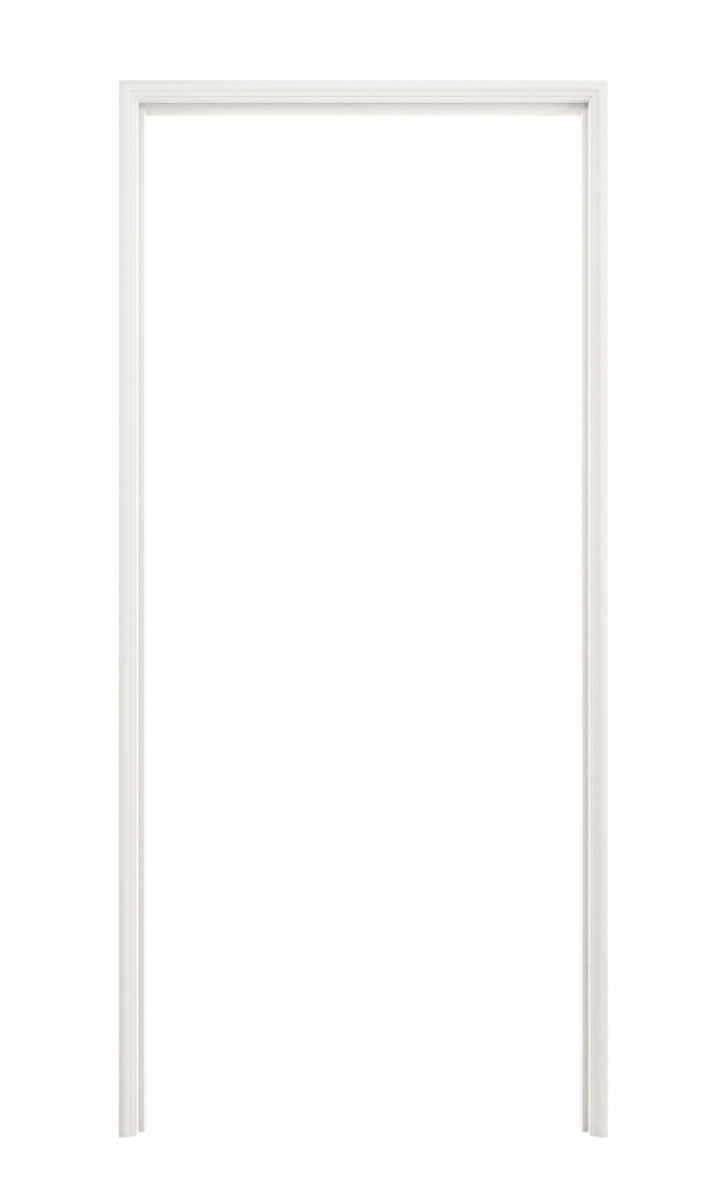
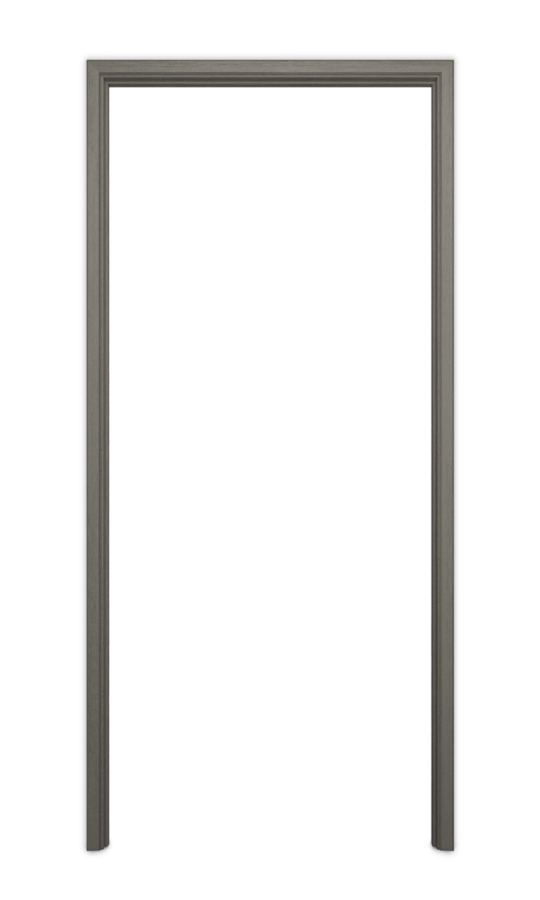
fix: 更換門扇圖片+修正錯字+sidebar layout手機版調整

Changed region(s): [[0.1481, 0.0622, 0.8593, 0.9644]]

diff --git a/layouts/tmp1Components/Header.vue b/layouts/tmp1Components/Header.vue
@@ -3,9 +3,9 @@
         class="fixed z-[500] items-center w-full duration-500 transition-all"
         :class="[isHomeMenuFixed || isPad ? 'bg-white fixed top-0 border-b border-gray-300' : route.name === 'index' ? 'top-0 border-b border-transparent' : '', route.name !== 'index' ? 'fixed top-0 bg-white border-b border-gray-300' : '']"
     >
-        <nav class="xl:mx-[32px] xl:flex items-center xl:text-left text-center" :class="isPad ? 'header-h-mb' : ''">
+        <nav class="xl:mx-[32px] xl:flex items-center xl:text-left text-center h-headerMb xl:h-header">
             <div
-                class="absolute flex justify-center items-center !w-[40px] !h-[40px] top-8 left-4 -translate-y-1/2 flex xl:hidden cursor-pointer z-[2]"
+                class="absolute flex justify-center items-center !w-[40px] !h-[40px] top-8 left-3 -translate-y-1/2 flex xl:hidden cursor-pointer z-[2]"
                 @click="showMenu = !showMenu"
                 type="button"
             >
@@ -122,7 +122,7 @@
                 </li>
             </ul>
             <ul
-                class="absolute xl:relative flex gap-[2px] xl:pr-[16px] 3xl:pr-[20px] top-8 xl:top-0 right-4 xl:right-0 -translate-y-1/2 xl:translate-y-0 xl:before:absolute xl:before:top-1/2 xl:before:-translate-y-1/2 xl:before:right-0 xl:before:bg-gray-400 xl:before:w-[1px] xl:before:h-4 z-[2]"
+                class="absolute xl:relative flex gap-[2px] xl:pr-[16px] 3xl:pr-[20px] top-8 xl:top-0 right-3 xl:right-0 -translate-y-1/2 xl:translate-y-0 xl:before:absolute xl:before:top-1/2 xl:before:-translate-y-1/2 xl:before:right-0 xl:before:bg-gray-400 xl:before:w-[1px] xl:before:h-4 z-[2]"
             >
                 <li
                     v-for="(icon, index) in rightIcons"
@@ -546,11 +546,6 @@ function toggleMenu(key: string) {
             @apply text-gray-600;
         }
     }
-}
-
-// 手機版的header
-.header-h-mb{
-    height: #{$navbar-height-mb};
 }
 
 // 手機版的下拉選單

diff --git a/views/template1/components/SideBar.tsx b/views/template1/components/SideBar.tsx
@@ -1,5 +1,6 @@
 
 import { NuxtLink } from "nuxt";
+
 export default defineComponent({
     props: {
         menus: {
@@ -27,16 +28,16 @@ export default defineComponent({
 
 
         return () => (
-            <ul class="pr-[32px] border-r border-gray-200 w-[250px]">
+            <ul class="relative -mx-4 xl:mx-0 px-4 xl:px-0 flex xl:block xl:pr-[40px] xl:border-r border-gray-200 xl:w-[250px] before:absolute xl:before:content-none before:bottom-0 before:-left-[10rem] before:w-full before:h-[1px] before:bg-gray-200 before:w-[calc(100%+20rem)]">
                 {menus.value.map((menu, index):any =>
                 (
-                    <li onClick={()=>router.push(menu.url)} class={["cursor-pointer border-b border-gray-200","flex text-[16px]", index !== 0 ? 'py-[16px]':'pb-[16px]']}>
-                        <span class={[menu.id ==route.query.id ?'text-gray-800 YaleSolisW-Bd font-medium':'YaleSolisW-Rg text-gray-400', 'flex-1']}>{menu.text}</span>
-                        { menu.id ==route.query.id ? <span><font-awesome-icon icon={['fas', 'chevron-right']} /></span> : null }
+                    <li onClick={()=>router.push(menu.url)} class={["cursor-pointer py-3 px-4 xl:p-0 xl:border-b border-gray-200","flex text-[16px]", index !== 0 ? 'xl:py-[16px]':'xl:pb-[16px]']}>
+                        <span class={[menu.id ==route.query.id ?'text-gray-800 YaleSolisW-Bd font-medium':'YaleSolisW-Rg text-gray-400', 'xl:flex-1']}>{menu.text}</span>
+                        { menu.id ==route.query.id ? <span class="hidden xl:block"><font-awesome-icon icon={['fas', 'chevron-right']} /></span> : null }
                     </li>
                 )
                 )}
             </ul>
         )
-    }
+    },
 })

diff --git a/views/template1/layouts/SideBarLayout.vue b/views/template1/layouts/SideBarLayout.vue
@@ -1,16 +1,16 @@
 <template>
     <section
-        class="mt-[86px]"
+        class="mt-headerMb xl:mt-header overflow-x-hidden"
         :class="customClass"
     >
-        <nav class="border-t border-b border-gray-300 py-[16px] bg-white min-h-[55px]">
+        <nav class="border-t border-b border-gray-300 py-2.5 xl:py-4 bg-white min-h-[43px] xl:min-h-[55px]">
             <div class="container">
                 <slot name="breadcrumbs"></slot>
             </div>
         </nav>
         <div
             :style="`background-image: url(${banner})`"
-            class="relative min-h-[320px] w-full bg-cover flex items-center justify-center"
+            class="relative h-[240px] xl:h-[320px] w-full bg-cover bg-center flex items-center justify-center"
         >
             <!-- <NuxtImg :src="banner" /> -->
             <div class="absolute top-0 w-full h-full bg-black bg-opacity-40"></div>
@@ -18,9 +18,9 @@
         </div>
 
         <div class="container">
-            <div class="mt-[60px] flex">
+            <div class="mt-[20px] xl:mt-[60px] flex flex-col xl:flex-row gap-4 xl:gap-0">
                 <slot name="sidebar"></slot>
-                <main class="flex-1 pl-[40px]">
+                <main class="flex-1 xl:pl-[40px]">
                     <slot name="list"></slot>
                     <slot name="content"></slot>
                     <div class="flex justify-center">

diff --git a/views/template1/Home/HomeSample.vue b/views/template1/Home/HomeSample.vue
@@ -79,11 +79,11 @@
                                         <div class="flex-1 max-w-[600px] cursor-pointer" @click="router.push(slide.url)">
                                             <div class="flex items-center">
                                                 <h5
-                                                    class="flex-1 text-[18px] md:text-[24px] YaleSolisW-Bd font-medium line-clamp-2"
+                                                    class="flex-1 text-[18px] md:text-[24px] YaleSolisW-Bd font-medium line-clamp-1"
                                                 >
                                                     {{ slide.title }}
                                                 </h5>
-                                                <h6 class="hidden block text-[14px] font-medium YaleSolisW-Bd">{{ slide.published_at }}</h6>
+                                                <h6 class="hidden xl:block text-[14px] font-medium YaleSolisW-Bd">{{ slide.published_at }}</h6>
                                             </div>
                                             <p class="md:mt-[6px] mt-[12px] YaleSolisW-Lt font-[400] text-[16px] line-clamp-2" v-if="slide.description">{{ slide.description }}</p>
                                             <!-- {{ index }} -->

diff --git a/layouts/tmp1Components/Footer.vue b/layouts/tmp1Components/Footer.vue
@@ -49,13 +49,12 @@
                     </ul>
                     <aside class="flex flex-col xl:flex-row justify-between mt-2 xl:mt-20 text-sm font-light mb-10 xl:mb-6">
                         <div class="order-2 xl:order-1 mt-2 xl:mt-0">{{ copyright.text }}</div>
-                        <ul class="flex order-1 xl:order-2">
+                        <ul class="flex gap-5 order-1 xl:order-2">
                             <li
                                 v-for="(caluse, index) in copyright['caluses']"
                                 :key="index"
-                                class="mr-5"
                             >
-                                <NuxtLink :to="caluse.url">
+                                <NuxtLink class="hover:text-yellow-500" :to="caluse.url">
                                     {{ caluse.text }}
                                 </NuxtLink>
                             </li>
@@ -153,7 +152,7 @@ const footerDatas = ref({
         title: "SUPPORT",
         menus: [
             {
-                text: "常見問答",
+                text: "服務中心",
                 url: {
                     name: "faq-slug",
                     params: { slug: "耶魯服務中心" },

diff --git a/views/template1/Post/Store/StoreIndex.vue b/views/template1/Post/Store/StoreIndex.vue
@@ -57,7 +57,7 @@ async function getType() {
         const rows = (data.value as any).data;
 
         rows.forEach((item: { name: any; id: any }) => {
-            if (item.name === "電商平台") {
+            if (item.name === "電商通路") {
                 sidebar.value.push({
                     text: item.name,
                     id: item.id,
@@ -92,7 +92,7 @@ async function getType() {
             });
 
             breadcrumbs.value.push({
-                name: lastBreadcrumbs.name === "電商平台" ? "store-e-commerce-slug" : "store-slug",
+                name: lastBreadcrumbs.name === "電商通路" ? "store-e-commerce-slug" : "store-slug",
                 text: lastBreadcrumbs.name,
                 params: { slug: lastBreadcrumbs.name },
                 query: { id: lastBreadcrumbs.id },

diff --git a/views/template1/CustomProduct/components/CustomProductContent.vue b/views/template1/CustomProduct/components/CustomProductContent.vue
@@ -1,7 +1,7 @@
 <template>
     <div>
         <h1 class="text-[28px] font-medium YaleSolisW-Bd mb-[16px]">訂製您的專屬門扇</h1>
-        <p class="text-gray-500 text-[14px]">打造獨一無二的門扇體驗，耶魯電子鎖提供多樣門扇、智能門鎖選擇<br />，隨您心意搭配，為不同需求場景訂製獨特風格。</p>
+        <p class="text-gray-500 text-[14px]">打造獨一無二的門扇體驗，耶魯電子鎖提供多樣門扇、智能門鎖選擇<br />，隨您心意搭配，為不同需求用途訂製獨特風格。</p>
         <div
             class="mt-[20px] flex cursor-pointer group"
             @click="handleProcess"

diff --git a/views/template1/Post/Store/E-Commerce/E-CommerceIndex.vue b/views/template1/Post/Store/E-Commerce/E-CommerceIndex.vue
@@ -71,7 +71,7 @@ async function getType() {
         const rows = (data.value as any).data;
 
         rows.forEach((item: { name: any; id: any }) => {
-            if (item.name === "電商平台") {
+            if (item.name === "電商通路") {
                 sidebar.value.push({
                     text: item.name,
                     id: item.id,

diff --git a/tailwind.config.js b/tailwind.config.js
@@ -161,6 +161,8 @@ module.exports = {
             "80%": "80%",
             "85%": "85%",
             "90%": "90%",
+            header: "86px",
+            headerMb: "64px",
         },
         boxShadow: {
             sm: "0 1px 2px 0 rgba(0, 0, 0, 0.05)",
